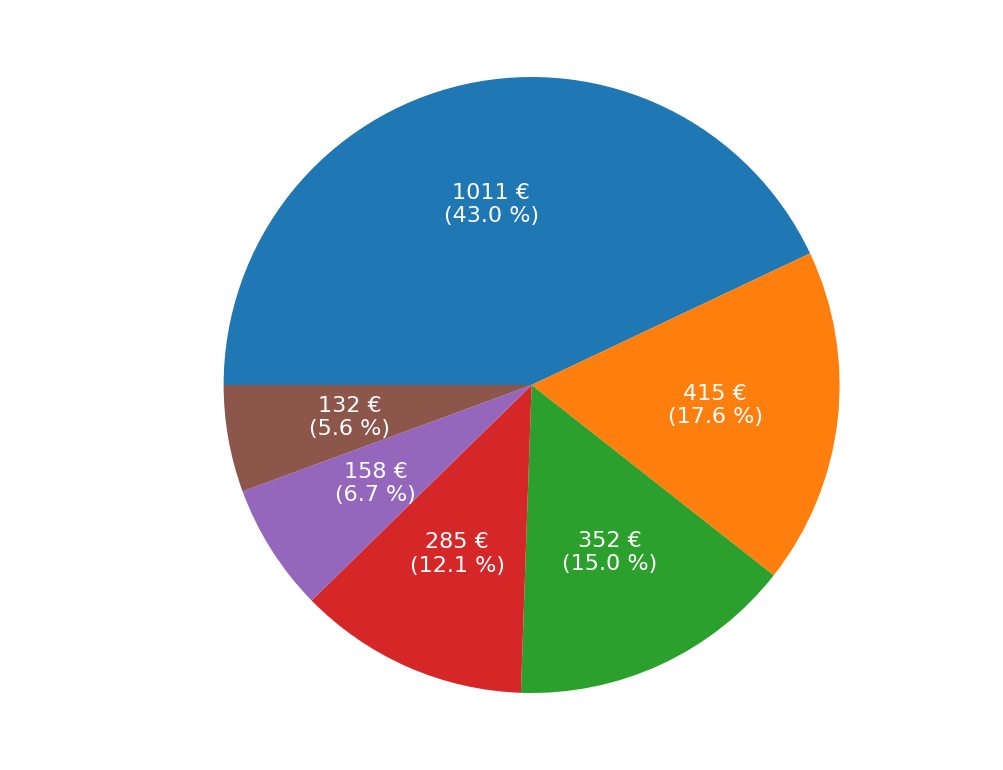
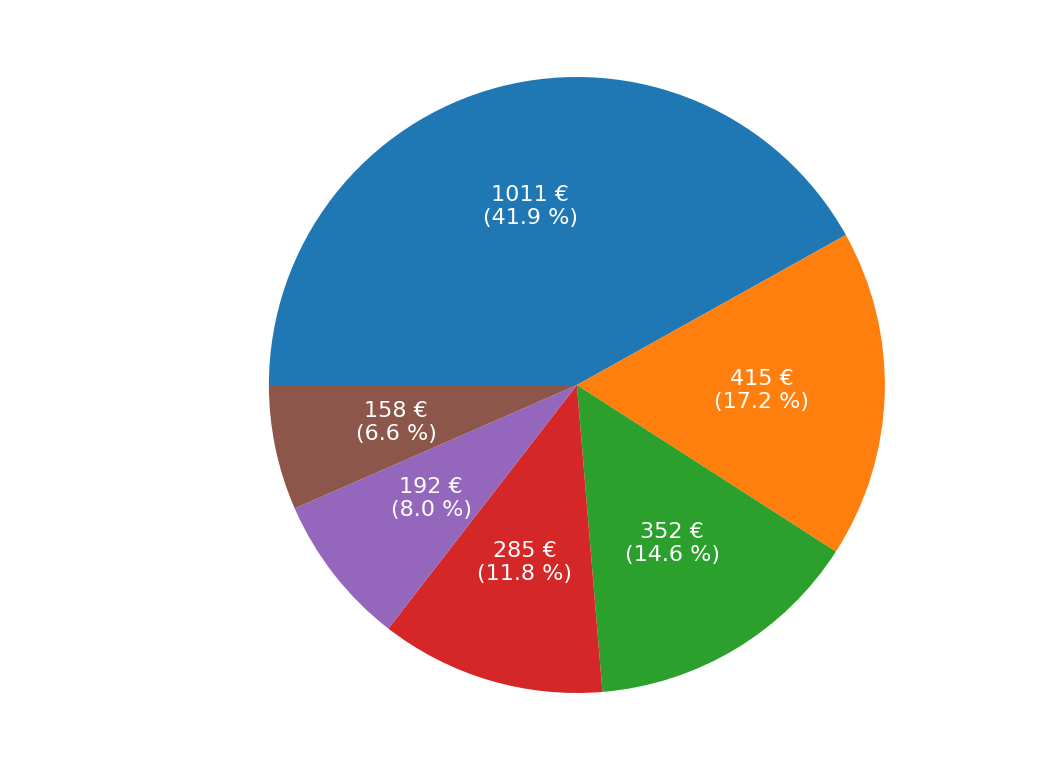
Update 28/10

diff --git a/page_total.html b/page_total.html
@@ -199,12 +199,6 @@
     <tr>
       <td>15/10/2022</td>
       <td>Courses Boissons</td>
-      <td><a href="subpage_1.html">Bar Pi 15/10</a></td>
-      <td style="color:#FA413B"">-188.03 €</td>
-    </tr>
-    <tr>
-      <td>15/10/2022</td>
-      <td>Courses Boissons</td>
       <td><a href="subpage_3.html">Bar Pi 26/11</a></td>
       <td style="color:#FA413B"">-136.50 €</td>
     </tr>
@@ -213,6 +207,12 @@
       <td>Vidanges</td>
       <td><a href="subpage_1.html">Bar Pi 15/10</a></td>
       <td style="color:#34FF27"">81.00 €</td>
+    </tr>
+    <tr>
+      <td>15/10/2022</td>
+      <td>Courses Boissons</td>
+      <td><a href="subpage_1.html">Bar Pi 15/10</a></td>
+      <td style="color:#FA413B"">-188.03 €</td>
     </tr>
     <tr>
       <td>15/10/2022</td>
@@ -245,10 +245,16 @@
       <td style="color:#34FF27"">36.00 €</td>
     </tr>
     <tr>
+      <td>27/10/2022</td>
+      <td>Achat Fontaine Valentine</td>
+      <td><a href="subpage_5.html">Lasagnes</a></td>
+      <td style="color:#34FF27"">60.00 €</td>
+    </tr>
+    <tr>
       <td></td>
       <td>Total</td>
       <td></td>
-      <td style="color:#34FF27"">1905.31 €</td>
+      <td style="color:#34FF27"">1965.31 €</td>
     </tr>
   </tbody>
 </table>

diff --git a/page_compte.html b/page_compte.html
@@ -144,15 +144,15 @@
     </tr>
     <tr>
       <td>08/10/2022</td>
-      <td>Chips</td>
-      <td><a href="subpage_0.html">Apéros Souper Photos</a></td>
-      <td style="color:#FA413B"">-3.99 €</td>
-    </tr>
-    <tr>
-      <td>08/10/2022</td>
       <td>Sapin JITS</td>
       <td><a href="subpage_6.html">Reste 2021-2022</a></td>
       <td style="color:#34FF27"">10.00 €</td>
+    </tr>
+    <tr>
+      <td>08/10/2022</td>
+      <td>Chips</td>
+      <td><a href="subpage_0.html">Apéros Souper Photos</a></td>
+      <td style="color:#FA413B"">-3.99 €</td>
     </tr>
     <tr>
       <td>10/10/2022</td>
@@ -209,10 +209,16 @@
       <td style="color:#34FF27"">36.00 €</td>
     </tr>
     <tr>
+      <td>27/10/2022</td>
+      <td>Achat Fontaine Valentine</td>
+      <td><a href="subpage_5.html">Lasagnes</a></td>
+      <td style="color:#34FF27"">60.00 €</td>
+    </tr>
+    <tr>
       <td></td>
       <td>Total</td>
       <td></td>
-      <td style="color:#34FF27"">1022.58 €</td>
+      <td style="color:#34FF27"">1082.58 €</td>
     </tr>
   </tbody>
 </table>

diff --git a/index.html b/index.html
@@ -9,7 +9,7 @@
 <body>
     <h1>Comptes Pis</h1>
 
-    <button onclick="location.href='page_compte.html'" type="button" class="BasicButton">Compte<br>1022.58 €</button>
+    <button onclick="location.href='page_compte.html'" type="button" class="BasicButton">Compte<br>1082.58 €</button>
     <button onclick="location.href='page_cash.html'" type="button" class="BasicButton">Cash<br>303.73 €</button>
     <button onclick="location.href='page_materiel.html'" type="button" class="BasicButton">Matériel<br>579.00 €</button>
     <br><br><br><br><br>
@@ -18,7 +18,7 @@
         <button onclick="location.href='page_graphs.html'" type="button" class="CategoryButton">Graphes</button>
     </p>
     <br><br><br>
-    <button onclick="location.href='page_total.html'" type="button" class="TotalButton">Total 1905.31 €</button>
+    <button onclick="location.href='page_total.html'" type="button" class="TotalButton">Total 1965.31 €</button>
     
     
 </body>

diff --git a/subpage_5.html b/subpage_5.html
@@ -37,9 +37,14 @@
       <td style="color:#34FF27"">36.00 €</td>
     </tr>
     <tr>
+      <td>27/10/2022</td>
+      <td>Achat Fontaine Valentine</td>
+      <td style="color:#34FF27"">60.00 €</td>
+    </tr>
+    <tr>
       <td></td>
       <td>Recettes Totales</td>
-      <td style="color:#34FF27"">132.00 €</td>
+      <td style="color:#34FF27"">192.00 €</td>
     </tr>
     <tr>
       <td></td>
@@ -49,7 +54,7 @@
     <tr>
       <td></td>
       <td>Total</td>
-      <td style="color:#34FF27"">132.00 €</td>
+      <td style="color:#34FF27"">192.00 €</td>
     </tr>
   </tbody>
 </table>

diff --git a/page_by_activity.html b/page_by_activity.html
@@ -54,7 +54,7 @@
     <tr>
       <td>14/10/2022</td>
       <td><a href="subpage_5.html">Lasagnes</a></td>
-      <td style="color:#34FF27"">132.00 €</td>
+      <td style="color:#34FF27"">192.00 €</td>
     </tr>
     <tr>
       <td>15/10/2022</td>
@@ -69,7 +69,7 @@
     <tr>
       <td></td>
       <td>Total</td>
-      <td style="color:#34FF27"">1905.31 €</td>
+      <td style="color:#34FF27"">1965.31 €</td>
     </tr>
   </tbody>
 </table>
